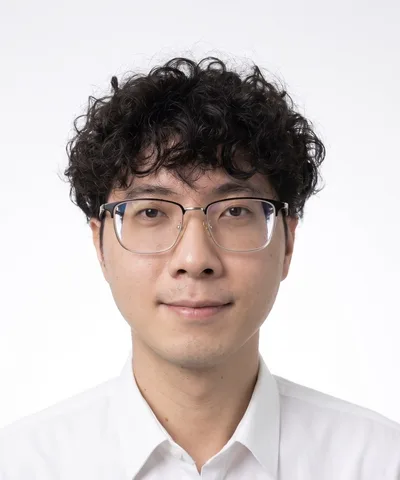
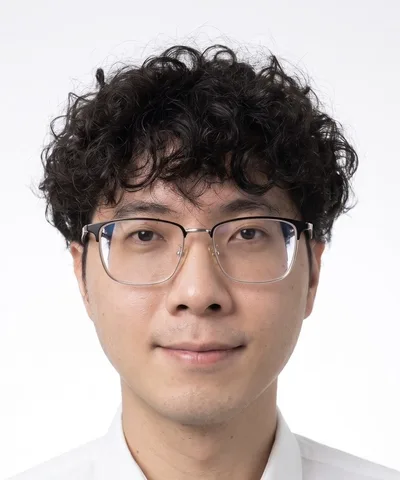
Tighten crop of Tanakorn Rojnirunchai portrait

diff --git a/people/researchers.html b/people/researchers.html
@@ -291,7 +291,7 @@
         </div>
 
         <div class="person">
-          <img class="person-photo" src="/assets/img/people/tanakorn-rojnirunchai.webp?v=c61a04eb" alt="Tanakorn Rojnirunchai" loading="lazy" width="400" height="480">
+          <img class="person-photo" src="/assets/img/people/tanakorn-rojnirunchai.webp?v=3f368715" alt="Tanakorn Rojnirunchai" loading="lazy" width="400" height="480">
           <p class="person-name">Tanakorn Rojnirunchai</p>
           <p class="person-role">Master of Research, 2026–</p>
           <p class="person-meta">Supervisors: Withawat, <a href="https://researchers.adelaide.edu.au/profile/daniel.headland">Daniel Headland</a></p>
